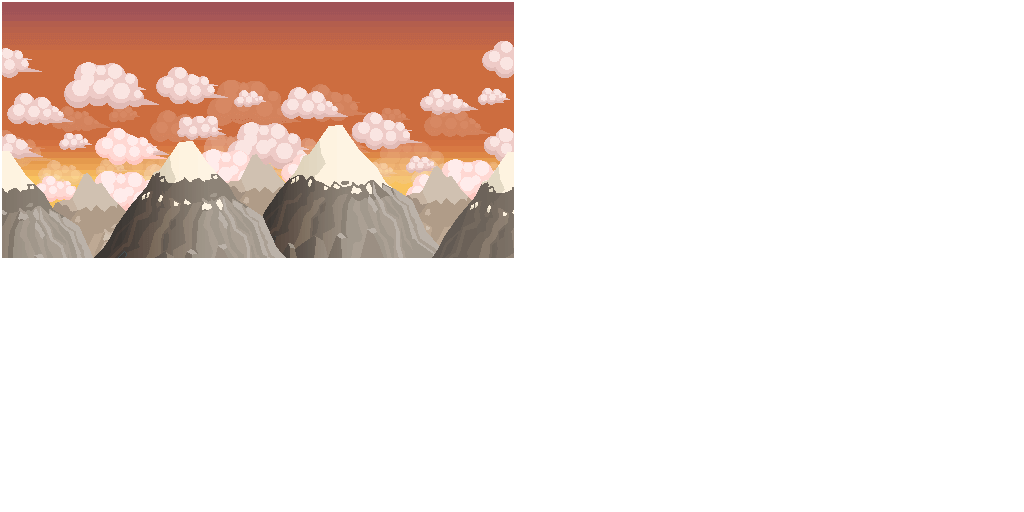
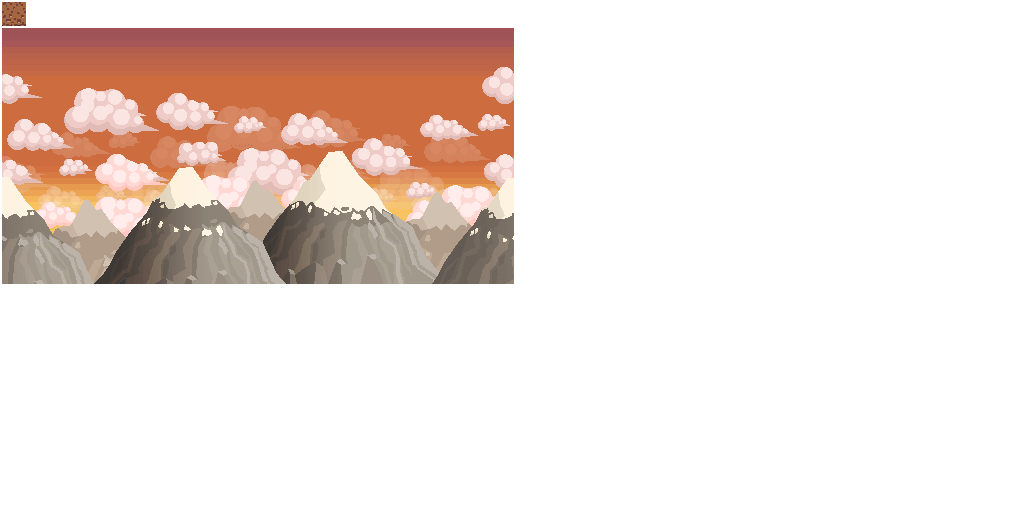
Platform tiles are repeating instead of stretching

Changed region(s): [[0.0, 0.0, 0.5, 0.5625]]

diff --git a/core/src/com/fighter/entity/Platform.java b/core/src/com/fighter/entity/Platform.java
@@ -1,6 +1,12 @@
 package com.fighter.entity;
 
+import com.badlogic.gdx.assets.AssetManager;
 import com.badlogic.gdx.graphics.OrthographicCamera;
+import com.badlogic.gdx.graphics.Texture;
+import com.badlogic.gdx.graphics.g2d.Batch;
+import com.badlogic.gdx.graphics.g2d.Sprite;
+import com.badlogic.gdx.graphics.g2d.TextureAtlas;
+import com.badlogic.gdx.graphics.g2d.TextureRegion;
 import com.badlogic.gdx.graphics.glutils.ShapeRenderer;
 import com.badlogic.gdx.math.Vector2;
 import com.badlogic.gdx.physics.box2d.Body;
@@ -8,14 +14,21 @@ import com.badlogic.gdx.physics.box2d.BodyDef;
 import com.badlogic.gdx.physics.box2d.PolygonShape;
 import com.badlogic.gdx.physics.box2d.World;
 import com.badlogic.gdx.scenes.scene2d.Actor;
+import com.badlogic.gdx.scenes.scene2d.utils.TiledDrawable;
+import com.badlogic.gdx.utils.Logger;
 import com.badlogic.gdx.utils.viewport.Viewport;
+import com.fighter.FighterGame;
+import com.fighter.assets.AssetPaths;
+import com.fighter.assets.RegionNames;
+import com.fighter.config.GameConfig;
 
 public class Platform extends Actor {
 
     // == Constants ==
+    private static final Logger LOG = new Logger(Platform.class.getName(), Logger.DEBUG);
     private final float PLATFORM_DENSITY = 0.0f;
-    private final float DEFAULT_WIDTH = 1f;
-    private final float DEFAULT_HEIGHT = 1f;
+    private final float DEFAULT_WIDTH = 0.5f;
+    private final float DEFAULT_HEIGHT = 0.5f;
 
     // Offset to place body at bottom left instead of center
     private final float OFFSET = 0.5f;
@@ -24,6 +37,8 @@ public class Platform extends Actor {
     private BodyDef bodyDef;
     private Body body;
 
+    private FighterGame game;
+    private AssetManager assetManager;
     private World world;
 
     private float xPosition;
@@ -32,7 +47,8 @@ public class Platform extends Actor {
     private float height;
 
     // == Constructors ==
-    public Platform(World world, float xPos, float yPos) {
+    public Platform(FighterGame game, World world, float xPos, float yPos) {
+        this.game = game;
         this.world = world;
 
         xPosition = xPos - OFFSET;
@@ -44,7 +60,8 @@ public class Platform extends Actor {
         init();
     }
 
-    public Platform(World world, float xPos, float yPos, float width, float height) {
+    public Platform(FighterGame game, World world, float xPos, float yPos, float width, float height) {
+        this.game = game;
         this.world = world;
 
         xPosition = xPos - OFFSET;
@@ -52,23 +69,14 @@ public class Platform extends Actor {
 
         this.width = width;
         this.height = height;
+
+        init();
     }
 
-    // == Public methods ==
-    public void render(ShapeRenderer renderer, Viewport viewport, OrthographicCamera camera) {
-        viewport.apply();
-
-        renderer.setProjectionMatrix(camera.combined);
-        renderer.begin(ShapeRenderer.ShapeType.Filled);
-
-        renderer.rect(xPosition - width / 2f, yPosition - height / 2f,
-                width, height);
-
-        renderer.end();
-    }
-
-    // == Private Methods ==
+    // == init ==
     private void init() {
+        assetManager = game.getAssetManager();
+
         bodyDef = new BodyDef();
         bodyDef.type = BodyDef.BodyType.StaticBody;
         bodyDef.position.set(new Vector2(xPosition, yPosition));
@@ -82,5 +90,49 @@ public class Platform extends Actor {
         body.setUserData(this);
 
         bodyShape.dispose();
+    }
+
+    // == Public methods ==
+    @Override
+    public void draw(Batch batch, float parentAlpha) {
+        float xStart = xPosition - (width / 2f);
+        float yStart = yPosition - (height / 2f);
+
+        TextureAtlas mapAtlas = assetManager.get(AssetPaths.TEST_MAP);
+        TextureRegion tile = mapAtlas.findRegion(RegionNames.TEST_TILE);
+
+        // TODO repeat texture
+        /*
+        batch.draw(
+                tile,
+                xPosition - (width / 2f), yPosition - (height / 2f),
+                getOriginX(), getOriginY(),
+                width, height,
+                getScaleX(), getScaleY(),
+                getRotation()
+        );*/
+        LOG.debug("Size: " + tile.getRegionWidth());
+
+        for (float i = xStart; i < width; ++i) {
+            batch.draw(tile,
+                    i, yStart,
+                    getOriginX(), getOriginY(),
+                    1f, height,
+                    getScaleX(), getScaleY(),
+                    getRotation()
+            );
+        }
+    }
+
+    public void renderDebug(ShapeRenderer renderer, Viewport viewport, OrthographicCamera camera) {
+        viewport.apply();
+
+        renderer.setProjectionMatrix(camera.combined);
+        renderer.begin(ShapeRenderer.ShapeType.Filled);
+
+        renderer.rect(xPosition - width / 2f, yPosition - height / 2f,
+                width, height);
+
+        renderer.end();
     }
 }

diff --git a/core/src/com/fighter/map/MapLayout.java b/core/src/com/fighter/map/MapLayout.java
@@ -1,13 +1,20 @@
 package com.fighter.map;
 
 import com.badlogic.gdx.assets.AssetManager;
+import com.badlogic.gdx.graphics.OrthographicCamera;
+import com.badlogic.gdx.graphics.g2d.Batch;
 import com.badlogic.gdx.graphics.g2d.TextureAtlas;
+import com.badlogic.gdx.graphics.glutils.ShapeRenderer;
 import com.badlogic.gdx.physics.box2d.World;
+import com.badlogic.gdx.scenes.scene2d.Stage;
 import com.badlogic.gdx.scenes.scene2d.ui.Image;
+import com.badlogic.gdx.utils.viewport.Viewport;
 import com.fighter.FighterGame;
 import com.fighter.assets.AssetDescriptors;
 import com.fighter.assets.RegionNames;
 import com.fighter.config.GameConfig;
+import com.fighter.entity.Ground;
+import com.fighter.entity.Platform;
 
 // TODO finish MapLayout class
 public class MapLayout {
@@ -18,6 +25,9 @@ public class MapLayout {
 
     private Image background;
 
+    private Ground ground;
+    private Platform platform_1;
+
     // == Constructors ==
     public MapLayout(FighterGame game, World world) {
         this.game = game;
@@ -27,11 +37,19 @@ public class MapLayout {
         background = new Image(mapAtlas.findRegion(RegionNames.TEST_BACKGROUND));
         background.setSize(GameConfig.WORLD_WIDTH, GameConfig.WORLD_HEIGHT);
 
-        // Create platforms and ground
+        ground = new Ground(world);
+        platform_1 = new Platform(game, world, 2f, 2f, 3f, 0.5f);
     }
 
     // == Public Methods ==
-    public Image getBackground() {
-        return background;
+    public void renderDebug(ShapeRenderer renderer, Viewport viewport, OrthographicCamera camera) {
+        ground.renderDebug(renderer, viewport, camera);
+        platform_1.renderDebug(renderer, viewport, camera);
+    }
+
+    public void addToStage(Stage stage) {
+        stage.addActor(background);
+        stage.addActor(ground);
+        stage.addActor(platform_1);
     }
 }

diff --git a/core/src/com/fighter/screen/game/GameScreen.java b/core/src/com/fighter/screen/game/GameScreen.java
@@ -95,11 +95,7 @@ public class GameScreen implements Screen {
 
         map = new MapLayout(game, world);
 
-        // TODO Move ground and platforms to maplayout
-        ground = new Ground(world);
-        platform = new Platform(world, 2, 2);
-
-        stage.addActor(map.getBackground());
+        map.addToStage(stage);
         stage.addActor(player);
         stage.addActor(enemy);
     }
@@ -114,8 +110,7 @@ public class GameScreen implements Screen {
         viewport.apply();
         renderGameplay();
 
-        ground.render(renderer, viewport, camera);
-        platform.render(renderer, viewport, camera);
+        //map.renderDebug(renderer, viewport, camera);
 
         renderDebug();
         debugRenderer.render(world, camera.combined);

diff --git a/core/src/com/fighter/entity/Ground.java b/core/src/com/fighter/entity/Ground.java
@@ -42,7 +42,7 @@ public class Ground extends Actor {
     }
 
     // == Public methods ==
-    public void render(ShapeRenderer renderer, Viewport viewport, OrthographicCamera camera) {
+    public void renderDebug(ShapeRenderer renderer, Viewport viewport, OrthographicCamera camera) {
         viewport.apply();
 
         renderer.setProjectionMatrix(camera.combined);

diff --git a/core/src/com/fighter/assets/RegionNames.java b/core/src/com/fighter/assets/RegionNames.java
@@ -14,6 +14,7 @@ public class RegionNames {
 
     // == TestMap Atlas ==
     public static final String TEST_BACKGROUND = "test_background";
+    public static final String TEST_TILE = "test_tile";
 
     private RegionNames() {}
 }
